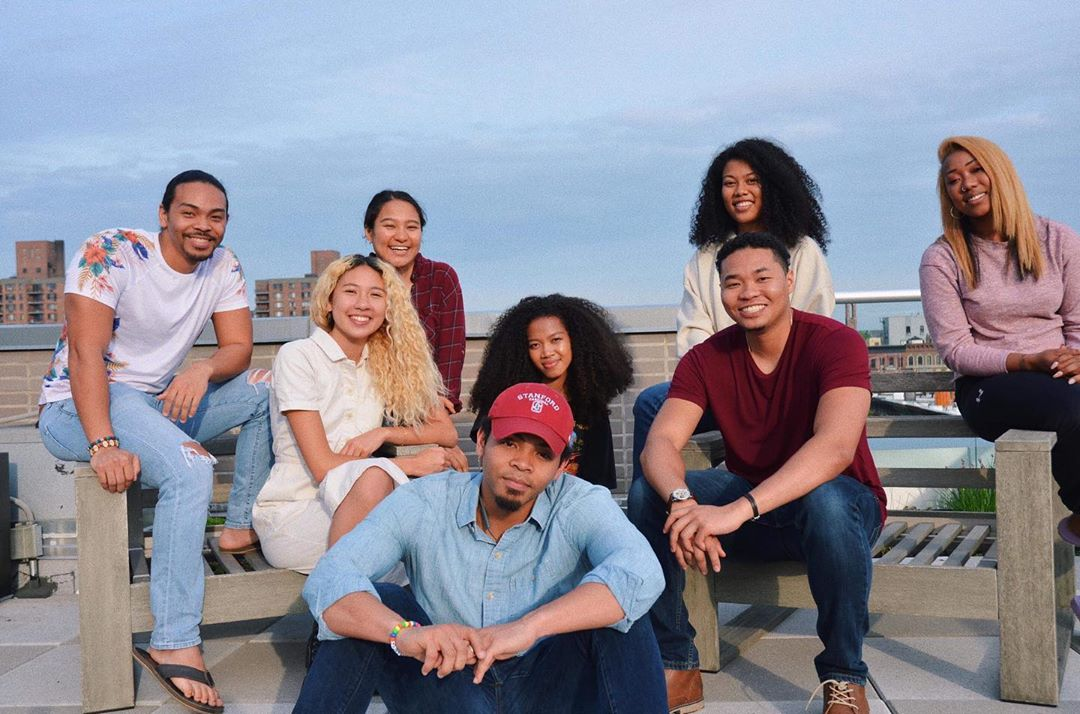
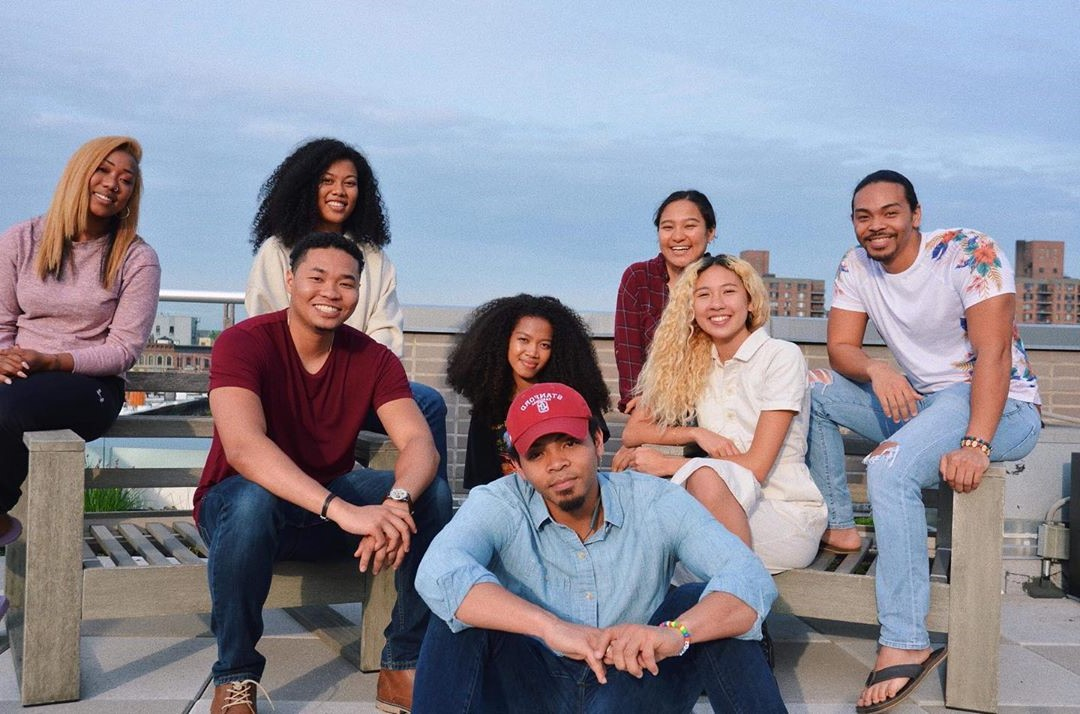
adjust landing image

diff --git a/src/main/home.js b/src/main/home.js
@@ -2,7 +2,7 @@ import React from 'react';
 import LogoLink from '../components/molecules/logoLink';
 import Nav from '../components/molecules/nav';
 import Button from '../components/molecules/button';
-import landing from '../images/landing2.jpg';
+import landing from '../images/landing.jpg';
 import About from './landing/about';
 import Community from './landing/community';
 import Media from './landing/media';
